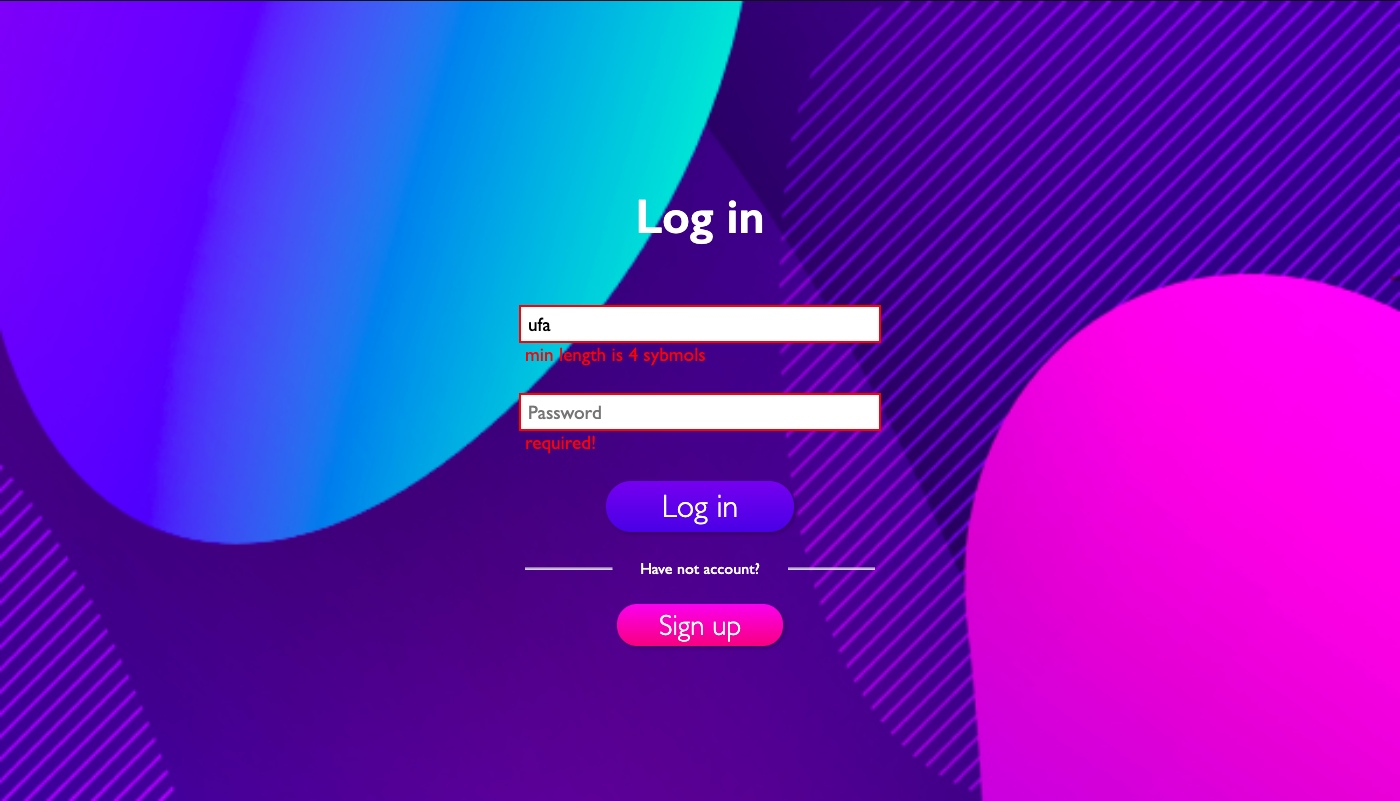
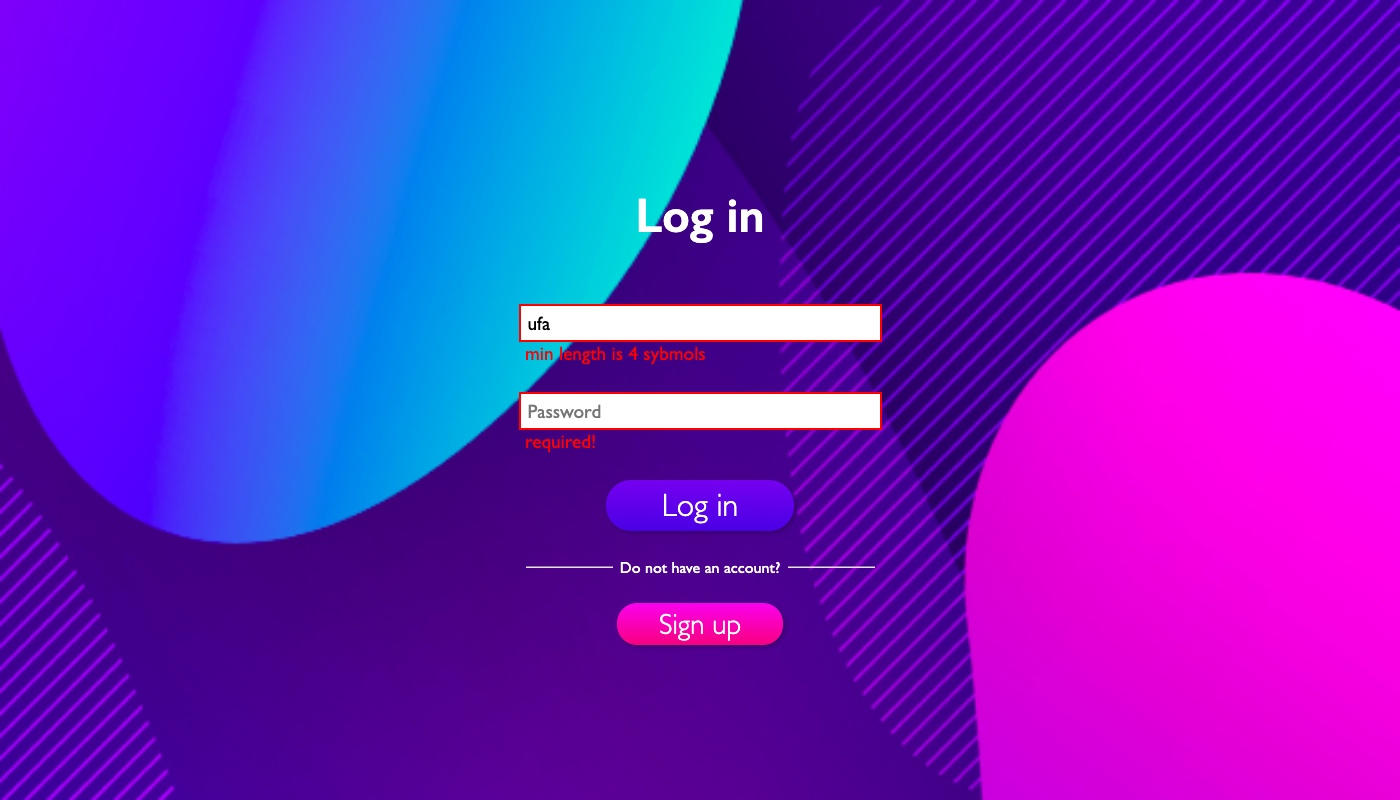
readme is updated

diff --git a/src/pages/Login/Login.tsx b/src/pages/Login/Login.tsx
@@ -106,7 +106,7 @@ class Login extends React.Component<InjectedFormProps & ILoginProps, ILoginState
                         </button>
                         <div className={classNames.noAccount}>
                             <div className={classNames.lineImg} />
-                            <span>Have not account?</span>
+                            <span>Do not have an account?</span>
                             <div className={classNames.lineImg} />
                         </div>
                         <button className={classNames.buttonSignUp} onClick={this.handleSignUp} >
